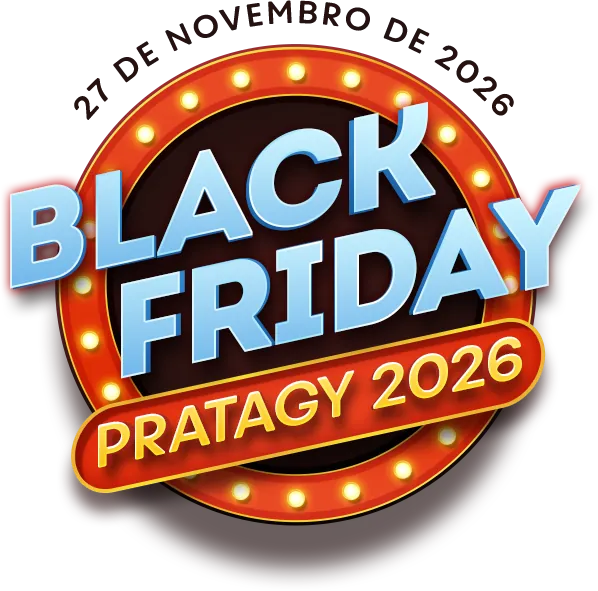
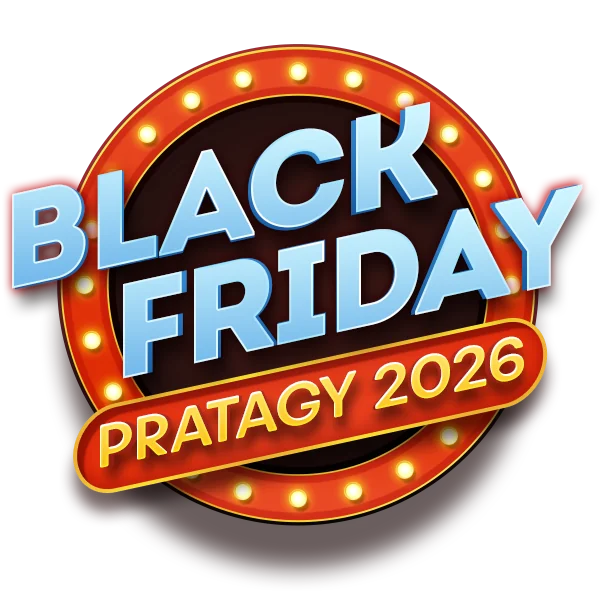
Lista VIP: selo novo, copy oficial, botão Cadastre-se agora, contagem para 01/11 e fallback do formulário

diff --git a/index.html b/index.html
@@ -3,12 +3,12 @@
 <head>
 <meta charset="utf-8">
 <meta name="viewport" content="width=device-width, initial-scale=1, viewport-fit=cover">
-<title>Black Friday 2026 | Pratagy Resort</title>
-<meta name="description" content="Black Friday Pratagy 2026 — 27 de novembro. Faça seu cadastro e entre para o grupo.">
+<title>Lista VIP Black Friday 2026 | Pratagy Resort</title>
+<meta name="description" content="Entre para a lista VIP da Black Friday Pratagy 2026 e tenha acesso antecipado ao preço especial de novembro. Faça seu cadastro.">
 <meta name="theme-color" content="#0A0A0A">
 <meta property="og:type" content="website">
-<meta property="og:title" content="Black Friday Pratagy 2026">
-<meta property="og:description" content="27 de novembro de 2026. Faça seu cadastro e entre para o grupo.">
+<meta property="og:title" content="Lista VIP · Black Friday Pratagy 2026">
+<meta property="og:description" content="Cadastre-se, entre para o grupo VIP e receba o preço especial da Black Friday do Pratagy antes de todo mundo.">
 <link rel="icon" type="image/webp" href="Assets/Selo-BlackFriday.webp">
 <link rel="preload" href="Fonte/Fibra-One-Heavy.otf" as="font" type="font/otf" crossorigin>
 <link rel="preload" href="Fonte/Fibra-One-Regular.otf" as="font" type="font/otf" crossorigin>
@@ -104,8 +104,8 @@ body {
   position: absolute; left: 0; right: 0; top: 0; height: 100vh; height: 100svh;
   display: grid; place-items: center; pointer-events: none;
 }
-.bf-hero__anchor { position: relative; top: 6vh; top: 6svh; width: var(--bf-seal); aspect-ratio: 598 / 591; }
-/* Retroiluminação do selo no preto (mantém legível a data do arco) */
+.bf-hero__anchor { position: relative; top: 6vh; top: 6svh; width: var(--bf-seal); aspect-ratio: 604 / 596; }
+/* Retroiluminação laranja do selo: destaca o arco contra o fundo preto */
 .bf-hero__halo {
   position: absolute; inset: -22%; z-index: 1; border-radius: 50%; opacity: 0;
   background: radial-gradient(closest-side,
@@ -115,16 +115,6 @@ body {
 }
 .bf-hero__seal { position: absolute; inset: 0; z-index: 3; margin: 0; perspective: 900px; will-change: transform; }
 .bf-hero__seal img { width: 100%; }
-/* Selo colorido ↔ versão white. Crossfade sem "piscar": a imagem que entra aparece por cima e a
-   de baixo só some ao final. A white (604×596) tem a mesma arte 2px deslocada — compensado aqui. */
-.bf-seal-stack { position: relative; }
-.bf-hero__seal .bf-seal-img--white {
-  position: absolute; left: -.334%; top: 0; width: 101.003%; max-width: none;
-  opacity: 0; transition: opacity .8s var(--bf-ease-out);
-}
-.bf-seal-img--color { transition: opacity 0s linear 0s; }
-.bf-hero.is-white .bf-seal-img--white { opacity: 1; }
-.bf-hero.is-white .bf-seal-img--color { opacity: 0; transition: opacity 0s linear .8s; }
 .bf-par { will-change: transform; }
 
 .bf-js .bf-pop { opacity: 0; transform: scale(.55) rotate(-8deg); }
@@ -155,9 +145,11 @@ body {
    Começam com opacity 0 e surgem quando a bolha termina de cobrir a tela (.is-on via JS).
    Ficam acima do hero e abaixo do conteúdo das seções, para não atrapalhar a leitura.
    bottom: 0 dá a altura inicial; depois o JS trava essa altura em px (ver measure), para que conteúdo
-   carregado depois (ex.: o formulário da SharpSpring) não reposicione os ícones. */
+   carregado depois (ex.: o formulário da SharpSpring) não reposicione os ícones. O topo de cada ícone usa
+   a mesma régua travada (--pct-u = 1% dela), então eles também não se mexem quando a página encolhe
+   (ex.: plano B do formulário no celular). */
 .bf-pcts {
-  --pct-o: 1; --pct-k: 1.4;
+  --pct-o: 1; --pct-k: 1.4; --pct-u: 1%;
   position: absolute; left: 0; right: 0; top: calc(var(--bf-hero-h) - 100vh); bottom: 0; z-index: 0;
   overflow: hidden; pointer-events: none;
 }
@@ -166,7 +158,7 @@ body {
    --o opacidade da camada (perto/meio/longe) · --m atenuação automática (JS) quando o ícone
    fica atrás da coluna de conteúdo, para nunca atrapalhar a leitura */
 .bf-pct {
-  position: absolute; top: calc(var(--t) * 1%); width: calc(var(--s) * var(--pct-k) * 1px);
+  position: absolute; top: calc(var(--t) * var(--pct-u)); width: calc(var(--s) * var(--pct-k) * 1px);
   opacity: 0; transform: rotate(calc(var(--r) * 1deg)); will-change: transform, opacity;
   transition: opacity .9s var(--bf-ease-out);
 }
@@ -273,6 +265,14 @@ body {
 .bf-btn:hover::after { transform: translateX(520%) skewX(-18deg); transition: transform .85s var(--bf-ease-out); }
 .bf-btn:active { transform: translateY(1px); }
 .bf-btn--cta::after { animation: bf-shine 4.2s ease-in-out infinite; }
+.bf-btn--gold {
+  color: #7A1A00; text-shadow: 0 1px 0 rgba(255,255,255,.35);
+  background:
+    linear-gradient(180deg, #FFEF7A 0%, var(--bf-gold) 45%, #F2A900 100%) padding-box,
+    linear-gradient(180deg, #FFF6B0, #C98400) border-box;
+  box-shadow: inset 0 2px 0 rgba(255,255,255,.55), inset 0 -4px 10px rgba(170,90,0,.35), 0 10px 22px rgba(110,15,0,.45);
+}
+.bf-btn--gold:hover { box-shadow: inset 0 2px 0 rgba(255,255,255,.6), inset 0 -4px 10px rgba(170,90,0,.35), 0 14px 28px rgba(110,15,0,.5), 0 0 26px rgba(255,215,0,.5); }
 @keyframes bf-shine { 0%, 62% { transform: translateX(-160%) skewX(-18deg); } 100% { transform: translateX(520%) skewX(-18deg); } }
 
 /* Dock: fica preso no rodapé da tela durante as seções 3 e 4 e "pousa" no fim delas */
@@ -396,7 +396,7 @@ body {
    ========================================================= */
 .bf-form { position: relative; padding: 0 0 clamp(40px, 8vh, 96px); scroll-margin-top: 3vh; }
 .bf-form__rise { max-width: 840px; margin: 0 auto; }
-/* Card plano: mesma linguagem do botão "Entre para o grupo" com as cores invertidas —
+/* Card plano: mesma linguagem do botão "Cadastre-se agora" com as cores invertidas —
    fundo laranja escuro/translúcido + borda dourada fina, sem sombras nem relevo */
 .bf-card {
   position: relative; border: 2px solid var(--bf-gold); border-radius: 24px;
@@ -429,6 +429,22 @@ body {
   display: block; width: 100% !important; max-width: 100%; margin: 0 auto;
   border: 0 !important; background: transparent !important; color-scheme: normal;
 }
+/* Plano B: se o formulário não aparecer em até 3 s (bloqueador de anúncios, rede muito lenta), o card mostra
+   o link direto para o grupo VIP. No desktop ocupa o mesmo espaço reservado, então nada na página pula; no
+   celular fica só com a altura do conteúdo, sem sobra de laranja no card. O iframe fica com altura 0 (mas
+   mantém a largura), pronto para voltar se o formulário chegar depois. */
+.bf-card.is-fallback #sharpspring-form { height: 0 !important; min-height: 0 !important; overflow: hidden; visibility: hidden; }
+.bf-ssf-fallback {
+  min-height: 500px; display: flex; flex-direction: column; align-items: center; justify-content: center;
+  gap: 14px; text-align: center;
+}
+@media (max-width: 480px) { .bf-ssf-fallback { min-height: 0; padding: 12px 0 8px; } }
+.bf-ssf-fallback__icon { width: 68px; height: 68px; display: grid; place-items: center; margin-bottom: 4px; border-radius: 50%; background: var(--bf-gold); box-shadow: 0 8px 22px rgba(110,15,0,.35); }
+.bf-ssf-fallback__icon svg { width: 34px; height: 34px; fill: none; stroke: #C92E07; stroke-width: 2; stroke-linecap: round; stroke-linejoin: round; }
+.bf-ssf-fallback__title { margin: 0; max-width: 22ch; color: var(--bf-gold); font-weight: 900; font-size: clamp(21px, 2.4vw, 28px); line-height: 1.1; text-transform: uppercase; }
+.bf-ssf-fallback__text { margin: 0; max-width: 40ch; color: var(--bf-white); font-size: clamp(16px, 1.5vw, 18px); line-height: 1.5; }
+.bf-ssf-fallback .bf-btn { margin-top: 10px; }
+.bf-ssf-fallback__note { margin: 6px 0 0; max-width: 46ch; color: rgba(255,255,255,.78); font-size: 13px; line-height: 1.45; }
 
 /* Texto final + rodapé */
 .bf-final { max-width: 760px; margin: clamp(56px, 10vh, 110px) auto 0; text-align: center; }
@@ -490,9 +506,8 @@ body {
         <div class="bf-hero__anchor">
           <div class="bf-hero__halo"></div>
           <h1 class="bf-hero__seal">
-            <div class="bf-par"><div class="bf-pop"><div class="bf-float bf-seal-stack">
-              <img class="bf-seal-img bf-seal-img--color" src="Assets/Selo-BlackFriday.webp" alt="Black Friday Pratagy 2026 — 27 de novembro de 2026" width="598" height="591" fetchpriority="high">
-              <img class="bf-seal-img bf-seal-img--white" src="Assets/Selo-BlackFriday-white.webp" alt="" width="604" height="596" decoding="async" fetchpriority="low">
+            <div class="bf-par"><div class="bf-pop"><div class="bf-float">
+              <img class="bf-seal-img" src="Assets/Selo-BlackFriday.webp" alt="Black Friday Pratagy 2026" width="604" height="596" fetchpriority="high">
             </div></div></div>
           </h1>
         </div>
@@ -527,10 +542,10 @@ body {
     <!-- ===================== 3. TEXTO ===================== -->
     <section class="bf-intro" id="bf-intro">
       <div class="bf-wrap">
-        <p class="bf-eyebrow"><span data-split>27 de novembro de 2026</span></p>
-        <h2 class="bf-intro__title" data-split>A <em>Black Friday</em> do Pratagy chegou</h2>
-        <p class="bf-intro__text" data-split>Chegou a hora de garantir aquela viagem dos sonhos com condições que só o Pratagy oferece. No dia 27 de novembro de 2026, abrimos as portas para a maior Black Friday do ano — com ofertas exclusivas, parcelamento facilitado e benefícios únicos para você viver o paraíso de Maceió.</p>
-        <p class="bf-intro__text" data-split>São 24 horas de condições imperdíveis para você aproveitar tudo o que o Pratagy tem de melhor: gastronomia premiada, praias paradisíacas, Acqua Park e uma estrutura completa para toda a família. As vagas são limitadas — e o paraíso não espera.</p>
+        <p class="bf-eyebrow"><span data-split>novembro de 2026</span></p>
+        <h2 class="bf-intro__title" data-split>Seja <em>VIP</em> na Black Friday do Pratagy</h2>
+        <p class="bf-intro__text" data-split>Em novembro de 2026, o Pratagy abre a maior Black Friday do ano — e você pode sair na frente. Cadastre-se na lista VIP e receba em primeira mão o preço especial, com parcelamento facilitado e benefícios únicos para viver o paraíso de Maceió.</p>
+        <p class="bf-intro__text" data-split>Quem está no grupo VIP recebe a oferta antes de todo mundo e aproveita primeiro tudo o que o Pratagy tem de melhor: gastronomia premiada, praias paradisíacas, Acqua Park e uma estrutura completa para toda a família. As vagas são limitadas — e o paraíso não espera.</p>
       </div>
     </section>
 
@@ -538,7 +553,7 @@ body {
     <section class="bf-countdown" aria-labelledby="bf-cd-title">
       <div class="bf-wrap">
         <div class="bf-cd bf-reveal" id="countdown">
-          <p class="bf-cd__title" id="bf-cd-title">A oferta começa em:</p>
+          <p class="bf-cd__title" id="bf-cd-title">O acesso VIP abre em:</p>
           <div class="bf-cd__grid" role="timer">
             <div class="bf-cd__unit"><span class="bf-cd__num" data-cd="d"><span>0</span><span>0</span></span><span class="bf-cd__label">Dias</span></div>
             <span class="bf-cd__sep" aria-hidden="true">:</span>
@@ -548,7 +563,7 @@ body {
             <span class="bf-cd__sep" aria-hidden="true">:</span>
             <div class="bf-cd__unit"><span class="bf-cd__num" data-cd="s"><span>0</span><span>0</span></span><span class="bf-cd__label">Segundos</span></div>
           </div>
-          <p class="bf-cd__done" hidden>A Black Friday chegou!</p>
+          <p class="bf-cd__done" hidden>O acesso VIP foi liberado!</p>
         </div>
       </div>
     </section>
@@ -636,7 +651,7 @@ body {
 
     <!-- Botão sticky (CSS puro — ref. Assets/botao-entre-para-o-grupo.webp) -->
     <div class="bf-dock">
-      <a class="bf-btn bf-btn--cta" href="#cadastro" data-cta><span>Entre para o grupo</span></a>
+      <a class="bf-btn bf-btn--cta" href="#cadastro" data-cta><span>Cadastre-se agora</span></a>
     </div>
   </div>
 
@@ -649,13 +664,21 @@ body {
             <h2 class="bf-card__title" id="bf-form-title">Faça seu cadastro</h2>
             <!-- Formulário oficial da SharpSpring (CRM): injetado aqui pelo JS quando o card se aproxima -->
             <div id="sharpspring-form"></div>
+            <!-- Plano B: aparece se o formulário não carregar em até 3 s. TROQUE O LINK pelo link real do grupo VIP. -->
+            <div class="bf-ssf-fallback" role="status" hidden>
+              <span class="bf-ssf-fallback__icon" aria-hidden="true"><svg viewBox="0 0 24 24"><path d="M21 11.5a8.4 8.4 0 0 1-12.3 7.5L3 21l2-5.4A8.4 8.4 0 1 1 21 11.5z"/><path d="M8.5 11.5h.01M12 11.5h.01M15.5 11.5h.01" stroke-width="3"/></svg></span>
+              <p class="bf-ssf-fallback__title">O formulário não carregou por aqui</p>
+              <p class="bf-ssf-fallback__text">Sem problema: entre direto no grupo VIP pelo WhatsApp e receba o acesso antecipado à Black Friday do Pratagy.</p>
+              <a class="bf-btn bf-btn--gold" href="https://wa.me/55XXXXXXXXXXX" target="_blank" rel="noopener"><span>Entrar no grupo VIP</span></a>
+              <p class="bf-ssf-fallback__note">Usa bloqueador de anúncios? Desative nesta página e recarregue para se cadastrar pelo formulário.</p>
+            </div>
           </div>
         </div>
       </div>
 
       <div class="bf-final bf-reveal">
-        <p class="bf-final__lead">Nos vemos em <span>27 de novembro</span></p>
-        <p class="bf-final__text">Não deixe para depois. As melhores condições da Black Friday são por tempo limitado e as vagas se esgotam rápido. Faça seu cadastro agora e garanta seu lugar no paraíso.</p>
+        <p class="bf-final__lead">Seu lugar na <span>lista VIP</span> te espera</p>
+        <p class="bf-final__text">Não deixe para depois: o acesso antecipado é exclusivo para quem estiver na lista VIP. Faça seu cadastro agora e garanta seu lugar no paraíso.</p>
       </div>
     </div>
   </section>
@@ -766,6 +789,7 @@ body {
       const avail = E.pcts.offsetParent ? E.pcts.offsetParent.clientHeight - E.pcts.offsetTop : 0; // até o fim da página
       if (relock) { M.pctH = avail; M.pctW = root.clientWidth; }
       css(E.pcts, 'height', Math.max(0, Math.min(M.pctH, avail)) + 'px');                           // nunca além do fim
+      css(E.pcts, '--pct-u', (M.pctH / 100).toFixed(3) + 'px');                                     // topo dos ícones pela régua travada
       const pr = E.pcts.getBoundingClientRect(), pt = pr.top + sy, wr = E.wrap && E.wrap.getBoundingClientRect();
       const cl = wr ? wr.left - pr.left : 0, cr = wr ? wr.right - pr.left : pr.width;
       for (let i = 0; i < pcts.length; i++) {
@@ -880,14 +904,12 @@ body {
     css(E.card, 'opacity', clamp(p / .55).toFixed(3));
   }
 
-  /* Gatilho único do fim da bolha: ícones de % aparecem e o selo faz crossfade para a versão white
-     (e volta para a colorida quando a bolha recua ao rolar para cima) */
+  /* Gatilho único do fim da bolha: os ícones de % aparecem (e somem quando a bolha recua ao rolar para cima) */
   function renderCover() {
     const on = sy >= M.heroTop + M.heroRange * GROW_END - 1;
     if (on === M.covered) return;
     M.covered = on;
     if (E.pcts) E.pcts.classList.toggle('is-on', on);
-    if (E.hero) E.hero.classList.toggle('is-white', on);
   }
 
   /* Ícones de %: parallax de scroll (Y) + parallax de mouse (X/Y) somados num único translate3d.
@@ -1072,11 +1094,11 @@ body {
   } else revealEls.forEach(el => el.classList.add('is-in'));
 
   /* =========================================================
-     CONTAGEM REGRESSIVA — 27/11/2026 00:00 em Brasília (UTC-3) = 03:00 UTC
+     CONTAGEM REGRESSIVA — abertura do acesso VIP: 01/11/2026 00:00 em Brasília (UTC-3) = 03:00 UTC
      ========================================================= */
   const countdown = doc.getElementById('countdown');
   if (countdown) {
-    const target = new Date('2026-11-27T03:00:00Z').getTime();
+    const target = new Date('2026-11-01T03:00:00Z').getTime();
     const cells = { d: $('[data-cd="d"]', countdown), h: $('[data-cd="h"]', countdown), m: $('[data-cd="m"]', countdown), s: $('[data-cd="s"]', countdown) };
     const shown = {};
     const pad = n => (n < 10 ? '0' + n : '' + n);
@@ -1121,13 +1143,35 @@ body {
      O script externo só é baixado quando o card se aproxima da tela, para não
      atrasar o carregamento inicial. Script oficial: "BFP 26 - Formulário de Captação".
      ========================================================= */
+  const SS_FORM_ID = 'S0w0Nk0ySDHQNbWwNNQ1MTcy0LU0SjLQNTRMNrBITklJTrFIBgA';
+
+  /* Plano B: se o formulário não aparecer em até 3 s (bloqueador de anúncios, rede muito lenta, SharpSpring
+     fora do ar), o card mostra o link direto para o grupo VIP. "Apareceu" = o iframe avisou a própria altura
+     (mensagem 'resize' que a SharpSpring manda à página). Se o formulário chegar depois, ele volta ao lugar. */
+  const formCard = $('.bf-card'), formFallback = $('.bf-ssf-fallback');
+  let formReady = false, formTimer = 0;
+  function showFormFallback() {
+    if (formReady || !formCard || !formFallback) return;
+    clearTimeout(formTimer);
+    formCard.classList.add('is-fallback');
+    formFallback.hidden = false;
+  }
+  win.addEventListener('message', e => {
+    const d = e.data;
+    if (formReady || !d || d.formID !== SS_FORM_ID || !/^https:\/\/[a-z0-9-]+\.marketingautomation\.services$/i.test(e.origin)) return;
+    formReady = true;
+    clearTimeout(formTimer);
+    if (formCard) formCard.classList.remove('is-fallback');
+    if (formFallback) formFallback.hidden = true;
+  });
+
   let sharpSpringLoaded = false;
   function loadSharpSpringForm() {
     if (sharpSpringLoaded || !doc.getElementById('sharpspring-form')) return;
     const cfg = doc.createElement('script');
     cfg.type = 'text/javascript';
     cfg.text =
-      "var ss_form = {'account': 'MzY0Mjc1NDQwAQA', 'formID': 'S0w0Nk0ySDHQNbWwNNQ1MTcy0LU0SjLQNTRMNrBITklJTrFIBgA'};\n" +
+      "var ss_form = {'account': 'MzY0Mjc1NDQwAQA', 'formID': '" + SS_FORM_ID + "'};\n" +
       "ss_form.width = '100%';\n" +
       "ss_form.domain = 'app-3SIPNPBO2C.marketingautomation.services';\n" +
       "ss_form.title = 'BFP 26 - Formulário de Captação';\n" +
@@ -1135,8 +1179,10 @@ body {
     const lib = doc.createElement('script');
     lib.type = 'text/javascript';
     lib.src = 'https://koi-3SIPNPBO2C.marketingautomation.services/client/form.js?ver=2.0.1';
+    lib.onerror = showFormFallback;                  // script bloqueado: plano B na hora
     doc.body.appendChild(cfg);
     doc.body.appendChild(lib);
+    formTimer = setTimeout(showFormFallback, 3000);  // não apareceu em 3 s: plano B
     sharpSpringLoaded = true;
   }
   const formSection = doc.getElementById('cadastro');
@@ -1197,8 +1243,6 @@ body {
       const ok = () => ph.classList.add('is-loaded');
       if (ph.complete) ok(); else { ph.addEventListener('load', ok, { once: true }); ph.addEventListener('error', ok, { once: true }); }
     }
-    const whiteSeal = $('.bf-seal-img--white');
-    if (whiteSeal && whiteSeal.decode) whiteSeal.decode().catch(() => {});
     const sealImg = $('.bf-hero__seal img'), ready = () => root.classList.add('bf-ready');
     if (!sealImg || sealImg.complete) ready();
     else { sealImg.addEventListener('load', ready, { once: true }); sealImg.addEventListener('error', ready, { once: true }); setTimeout(ready, 2500); }
